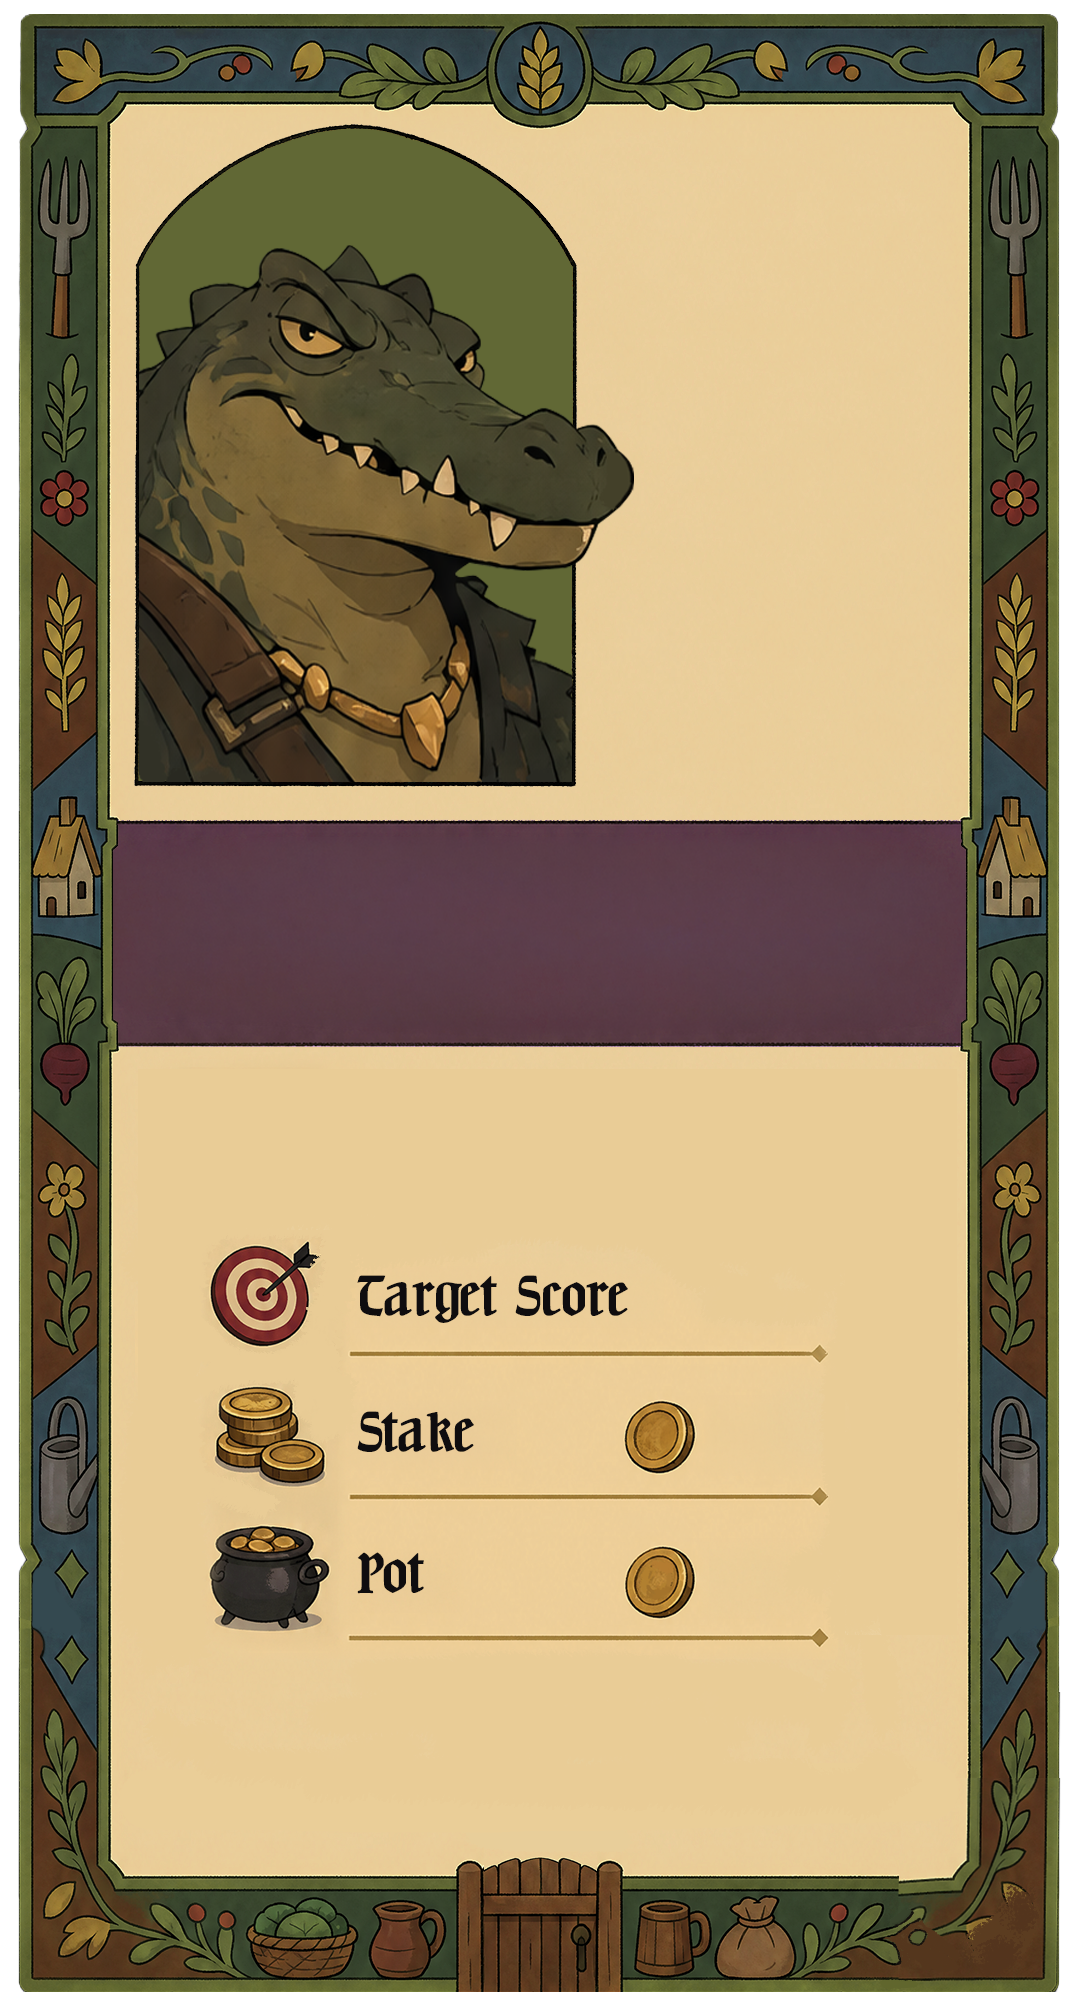
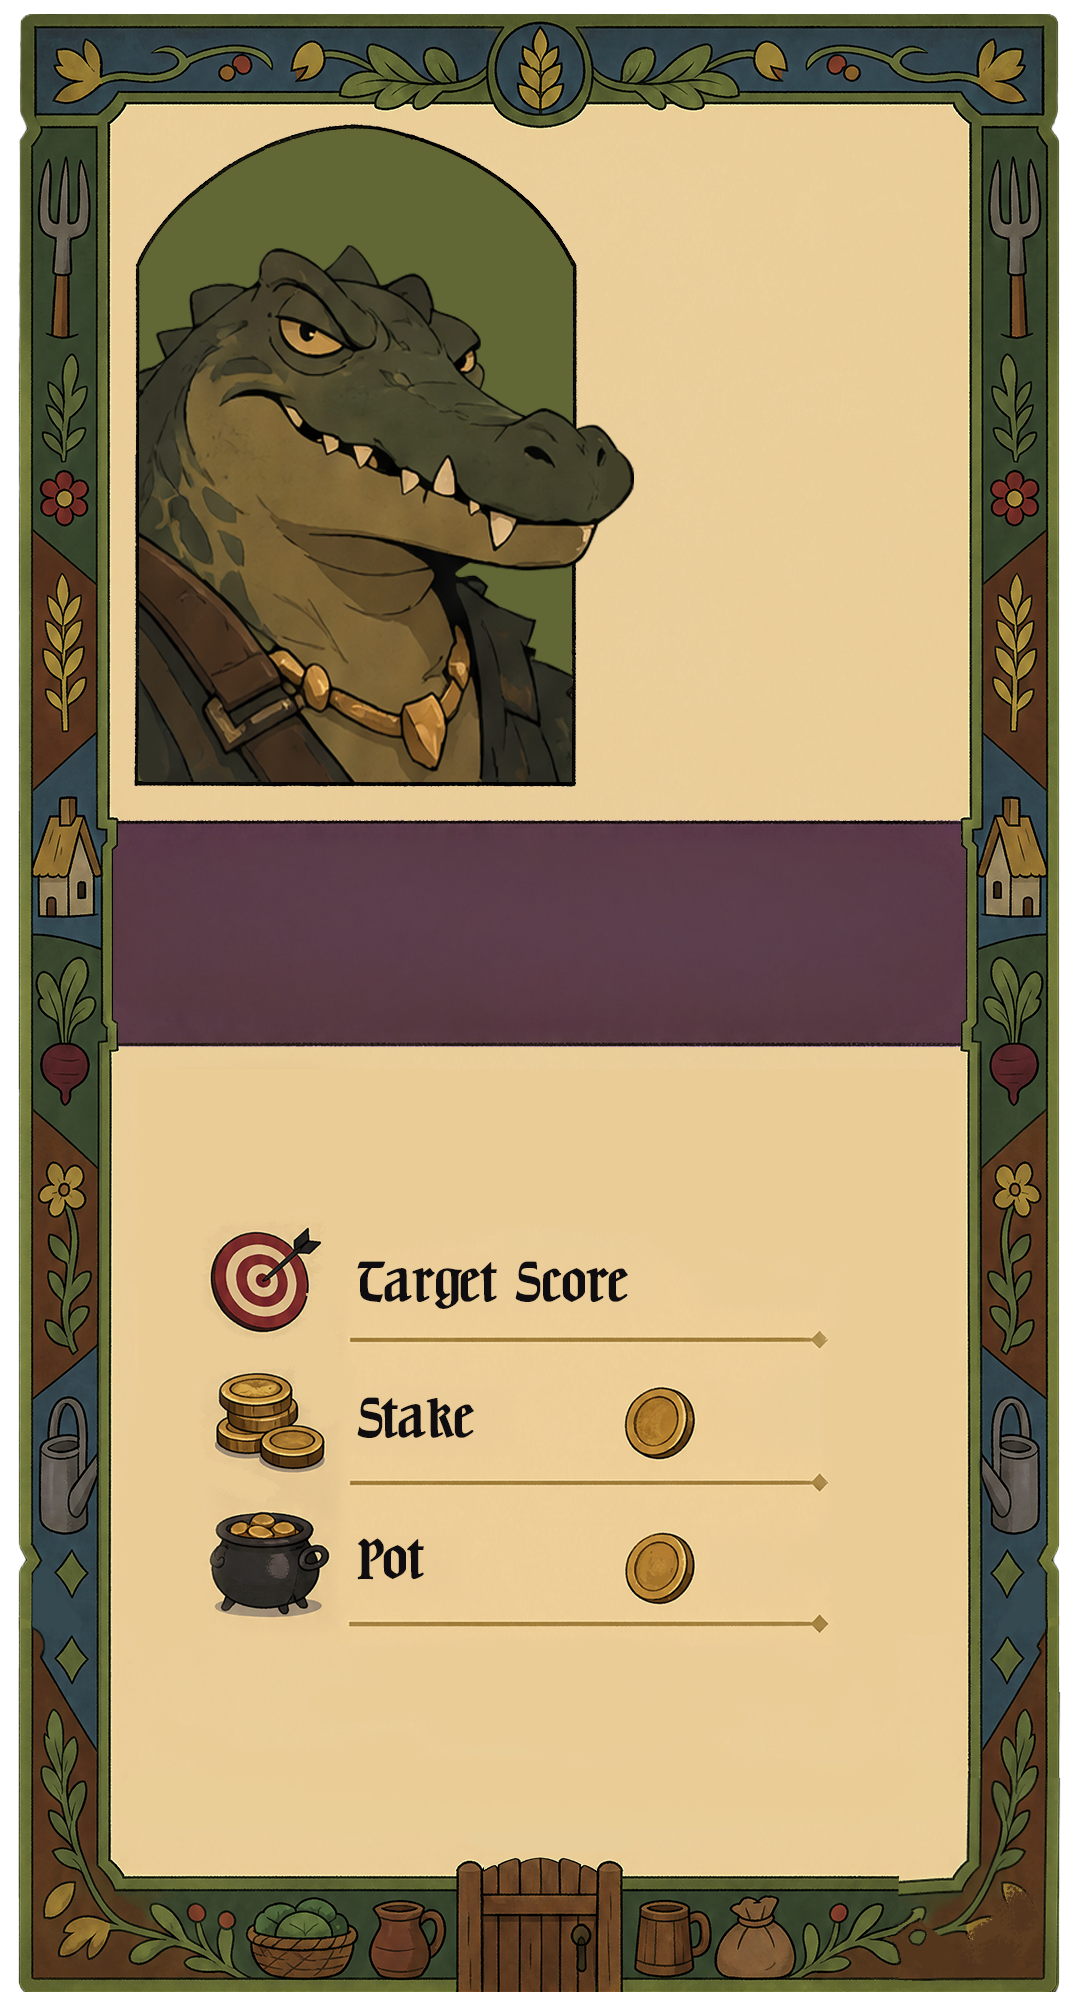
P69e: values on the raised rules (34.1/27/19.9), SIT DOWN scaled to 60%

Changed region(s): [[0.3361, 0.6166, 0.7639, 0.8324], [0.1833, 0.5858, 0.3056, 0.8324], [0.7333, 0.7091, 0.7639, 0.7708]]

diff --git a/fark_proto.html b/fark_proto.html
@@ -436,9 +436,9 @@ html.fkSA #gbSheet,html.fkSA #peekSheet{padding-bottom:env(safe-area-inset-botto
 #ptPanel .bgimg{position:absolute;inset:0;width:100%;height:100%;object-fit:contain}
 #ptPanel .pv{position:absolute;right:22.5%;font-family:var(--bodyFont);color:#2e1c0b;
   font-size:3.3cqh;text-align:right}
-#ptvTarget{bottom:33.4%}
-#ptvStake{bottom:26.3%}
-#ptvPot{bottom:19.2%}
+#ptvTarget{bottom:34.1%}
+#ptvStake{bottom:27.0%}
+#ptvPot{bottom:19.9%}
 #ptvWins{position:absolute;left:52%;right:8%;top:20.2%;z-index:2;display:flex;align-items:center;
   justify-content:center;gap:.6cqh;white-space:nowrap}
 #ptvWins img{height:3.2cqh;filter:drop-shadow(0 2px 3px rgba(0,0,0,.25))}
@@ -479,12 +479,12 @@ html.fkSA #gbSheet,html.fkSA #peekSheet{padding-bottom:env(safe-area-inset-botto
 #ptSitLayer{transform-origin:49.7% 88%}
 #ptCloseLayer{transform-origin:89.5% 92.4%}
 #ptBtnSit,#ptBtnClose{position:absolute;cursor:pointer;z-index:11}
-#ptBtnSit{left:23%;top:83.2%;width:54%;aspect-ratio:1136/334;height:auto;
+#ptBtnSit{left:20%;top:82.9%;width:60%;aspect-ratio:1136/334;height:auto;
   display:flex;align-items:center;justify-content:center;transition:transform .1s}
 #ptBtnSit:active{transform:scale(.96)}
 #ptBtnSit img{position:absolute;inset:0;width:100%;height:100%;object-fit:fill;pointer-events:none;
   filter:drop-shadow(0 5px 10px rgba(0,0,0,.4))}
-#ptBtnSit span{position:relative;z-index:1;font-family:'JMH Beda',serif;font-size:3.1cqh;
+#ptBtnSit span{position:relative;z-index:1;font-family:'JMH Beda',serif;font-size:3.3cqh;
   letter-spacing:.05em;color:#f7ecd2;text-shadow:0 2px 0 rgba(16,9,3,.85),0 3px 8px rgba(0,0,0,.5);
   transform:translateY(-4%)}
 #ptBtnClose{left:80.5%;top:90.8%;width:20%;height:9.6%;display:flex;align-items:center;justify-content:center}
